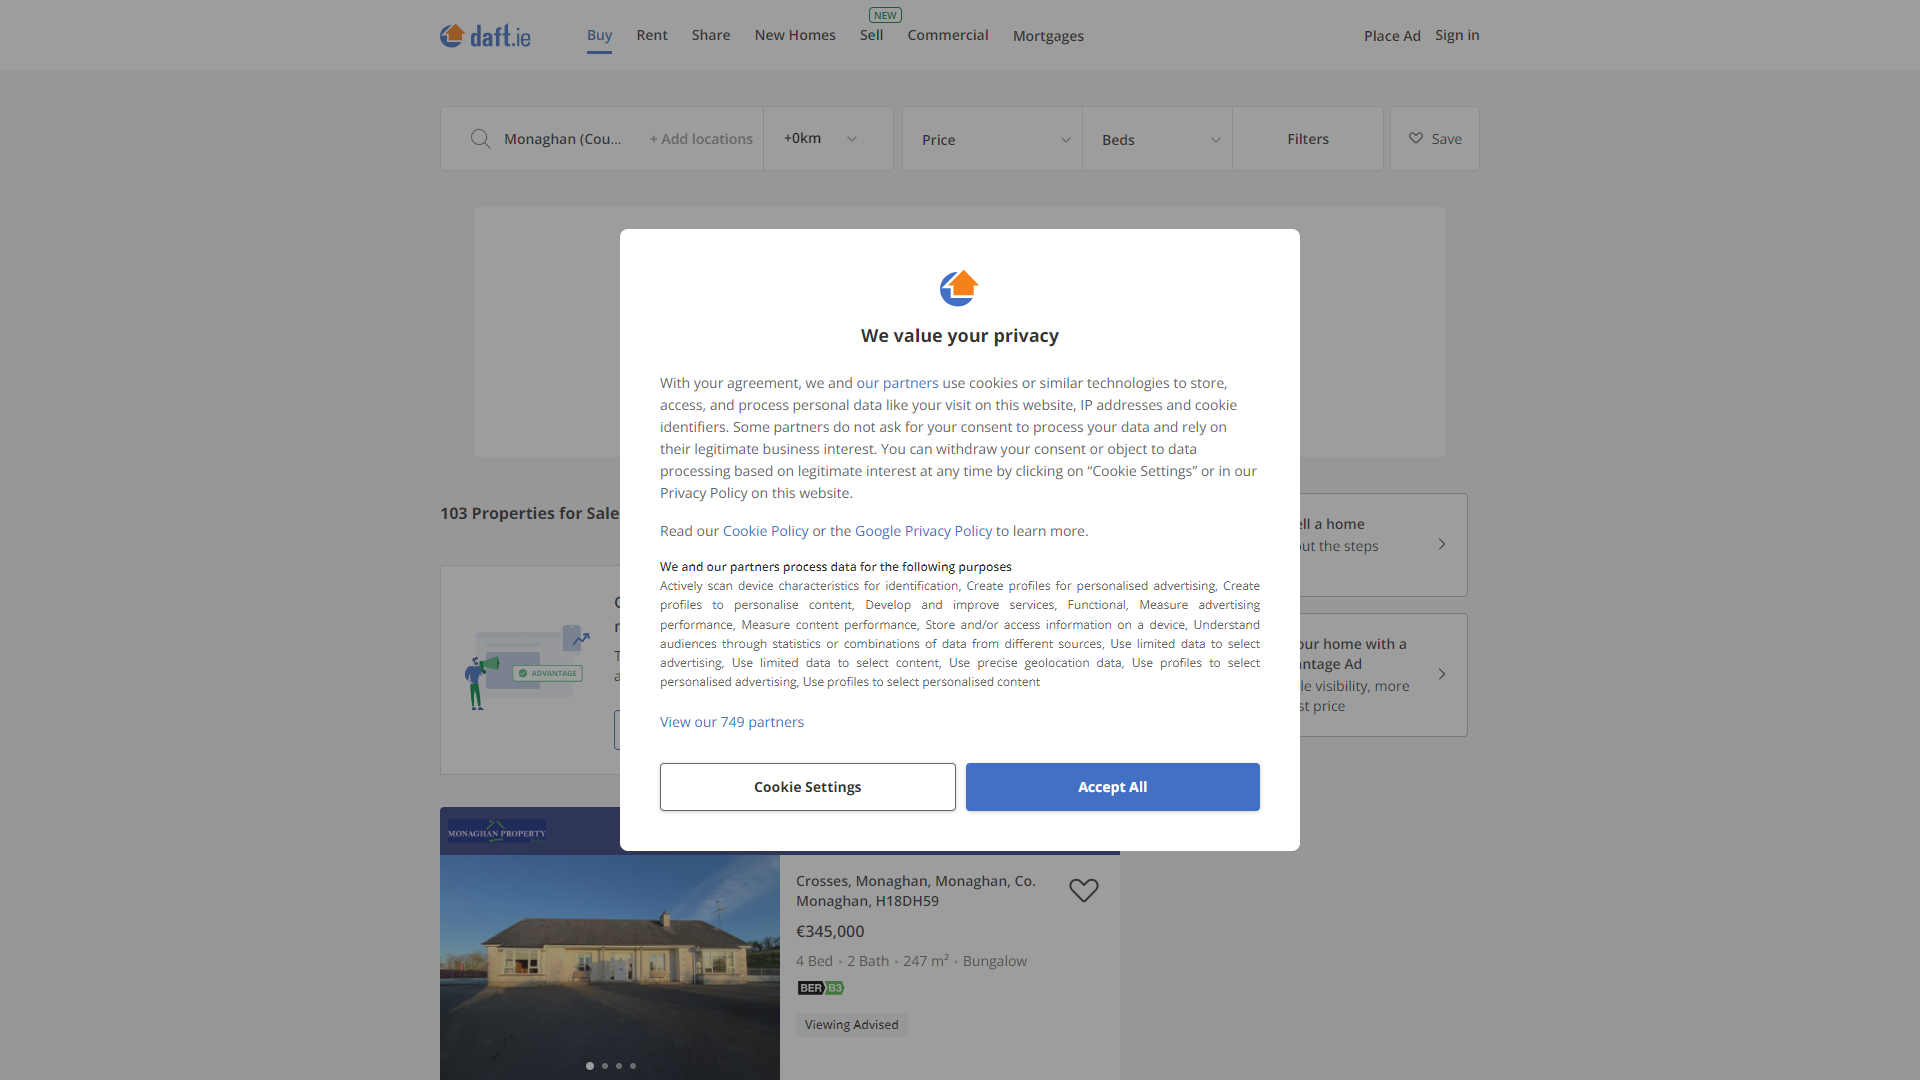
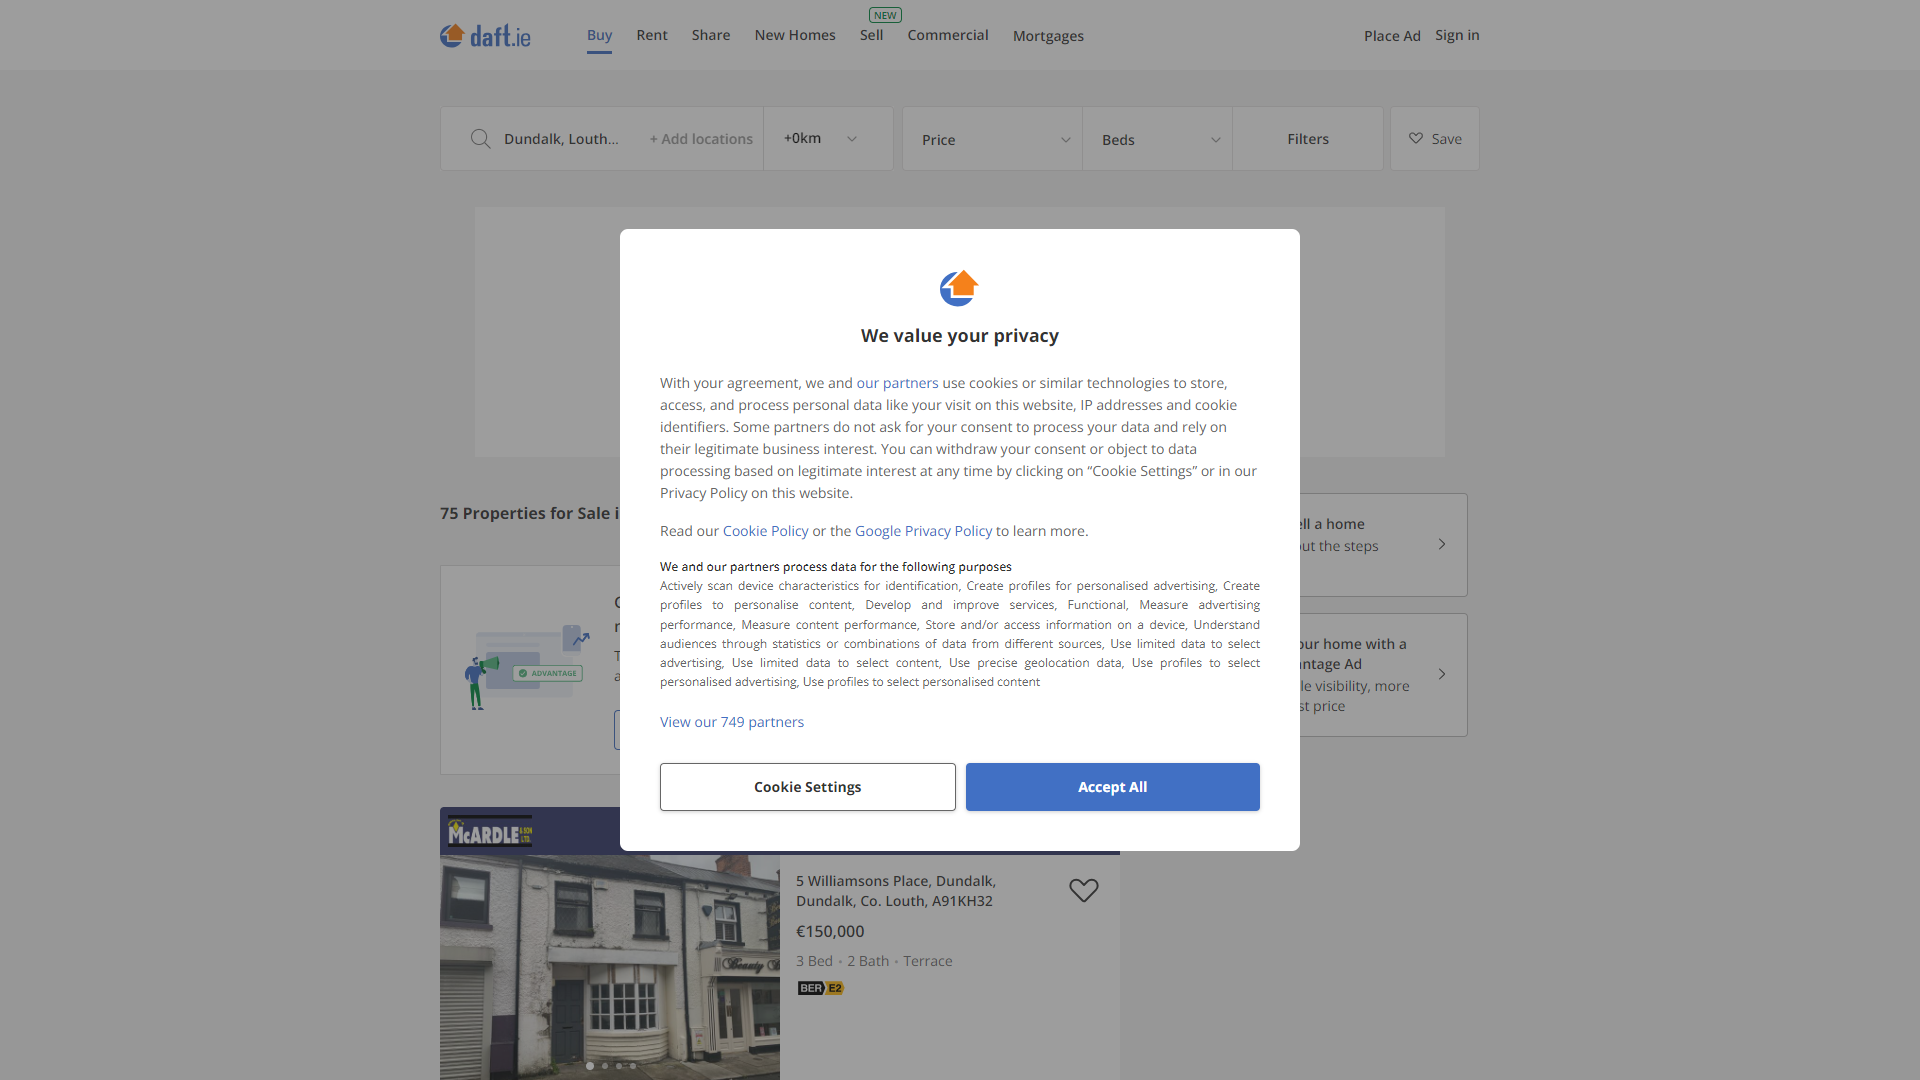
GOT IT SCRAPING LETS GO (1 PAGE ONLY ATM)

diff --git a/daftieScraper.go b/daftieScraper.go
@@ -3,22 +3,25 @@ package main
 import (
 	"fmt"
 	"log"
+	"time"
 
 	"github.com/playwright-community/playwright-go"
 )
 
-var TempForSaleUrl = "https://www.daft.ie/property-for-sale/monaghan"
+// https://www.daft.ie/property-for-sale/XXXX?pageSize=20&from=0 // > can go to max on bottom
+var TempForSaleUrl = "https://www.daft.ie/property-for-sale/dundalk-louth"
 var TempForRentUrl = "https://www.daft.ie/property-for-rent/monaghan"
 var PlaywrightContext playwright.BrowserContext
 
 type DaftComponents struct {
-	AdvertLink   string `json:"advert_link"`
-	PaymentType  string `json:"payment_type"`
-	PropertyType string `json:"property_type"`
-	Title        string `json:"title"`
-	Price        string `json:"price"`
-	BedCount     string `json:"bed_count"`
-	Tag          string `json:"tag"`
+	AdvertLink		string 	`json:"advert_link"`
+	RentOrSale		string 	`json:"rent_or_sale"`
+	Address			string	`json:"address"`
+	PropertyType	string 	`json:"property_type"`
+	Title			string 	`json:"title"`
+	Price			string 	`json:"price"`
+	BedCount		string 	`json:"bed_count"`
+	Tag				string 	`json:"tag"`
 	//PropertyImage	string `json:"property_image"` // ?? maybe
 }
 
@@ -31,14 +34,19 @@ func main() {
 	//init
 	PlaywrightContext = InitializePlaywright()
 	//now we scrape!
+	runtimes1 := time.Now()
 
-	compArr := ExtractComponents(PlaywrightContext)
+
+	compArr := PageScrape(PlaywrightContext)
 	fmt.Print(compArr)
+
+
+	runtimes2 := time.Now()
+	fmt.Println(runtimes2.Sub(runtimes1).Seconds)
 	PlaywrightContext.Close()
 }
 
-func ExtractComponents(ctx playwright.BrowserContext) (data []DaftComponents) {
-
+func PageScrape(ctx playwright.BrowserContext) (data []DaftComponents) {
 	// Created a new page from the context we initialized
 	page, err := ctx.NewPage()
 
@@ -69,17 +77,28 @@ func ExtractComponents(ctx playwright.BrowserContext) (data []DaftComponents) {
 		log.Fatalf("could not screenshot: %v", err)
 	}
 
-	listItem := 2
-	_xpath := fmt.Sprintf("xpath=//html/body/div[2]/main/div[3]/div[1]/ul/li[%v]", listItem)
-  sampleHeading, err := page.Locator(_xpath).AllTextContents()
+	//listItem := 2
+	//_xpath1 := fmt.Sprintf("xpath=//html/body/div[2]/main/div[3]/div[1]/ul/li[%v]", listItem)
+	_xpath := fmt.Sprintf("xpath=//html/body/div[2]/main/div[3]/div[1]/ul/li") //reformat as you wish
+  stuffs, err := page.Locator(_xpath).All()
 	if err != nil {
 		log.Fatalf("could not get entries: %v", err)
 	}
 
-	if len(sampleHeading) == 0 {
+	if len(stuffs) == 0 {
 		log.Fatalf("no entries found")
 	}
-	fmt.Printf("%v",sampleHeading)
+
+	fmt.Printf("%v\n",stuffs)
+
+	for r:=0;r<len(stuffs)-1;r++ {
+	miniStuffs, err := stuffs[r].AllInnerTexts()
+	if err != nil {
+		log.Fatalf("could not get entries: %v", err)
+	}
+	fmt.Println(miniStuffs, "\n\n@@@@@@@@@@@@@@@@@@@@@@@@@@@@@@@@@@@@@\n\n")
+	}
+
 	return
 }
 
@@ -116,8 +135,6 @@ func InitializePlaywright() playwright.BrowserContext {
 	}
 
 	fmt.Printf("\n\nwowwww\n\n\n")
-
-
 
 	return context
 
